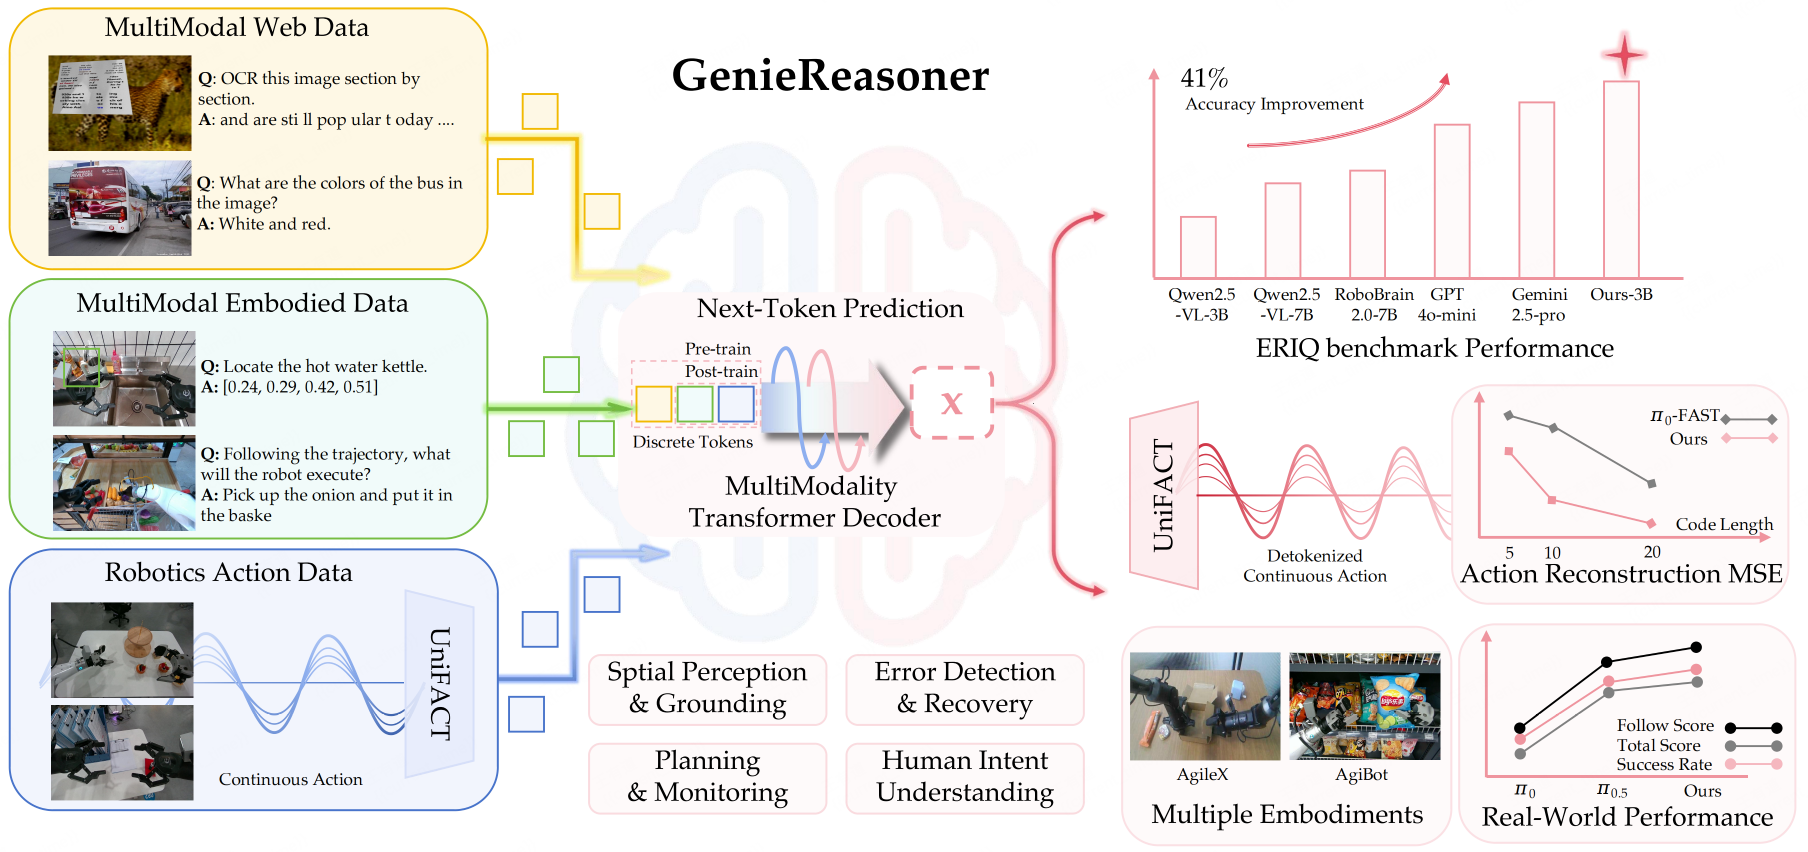
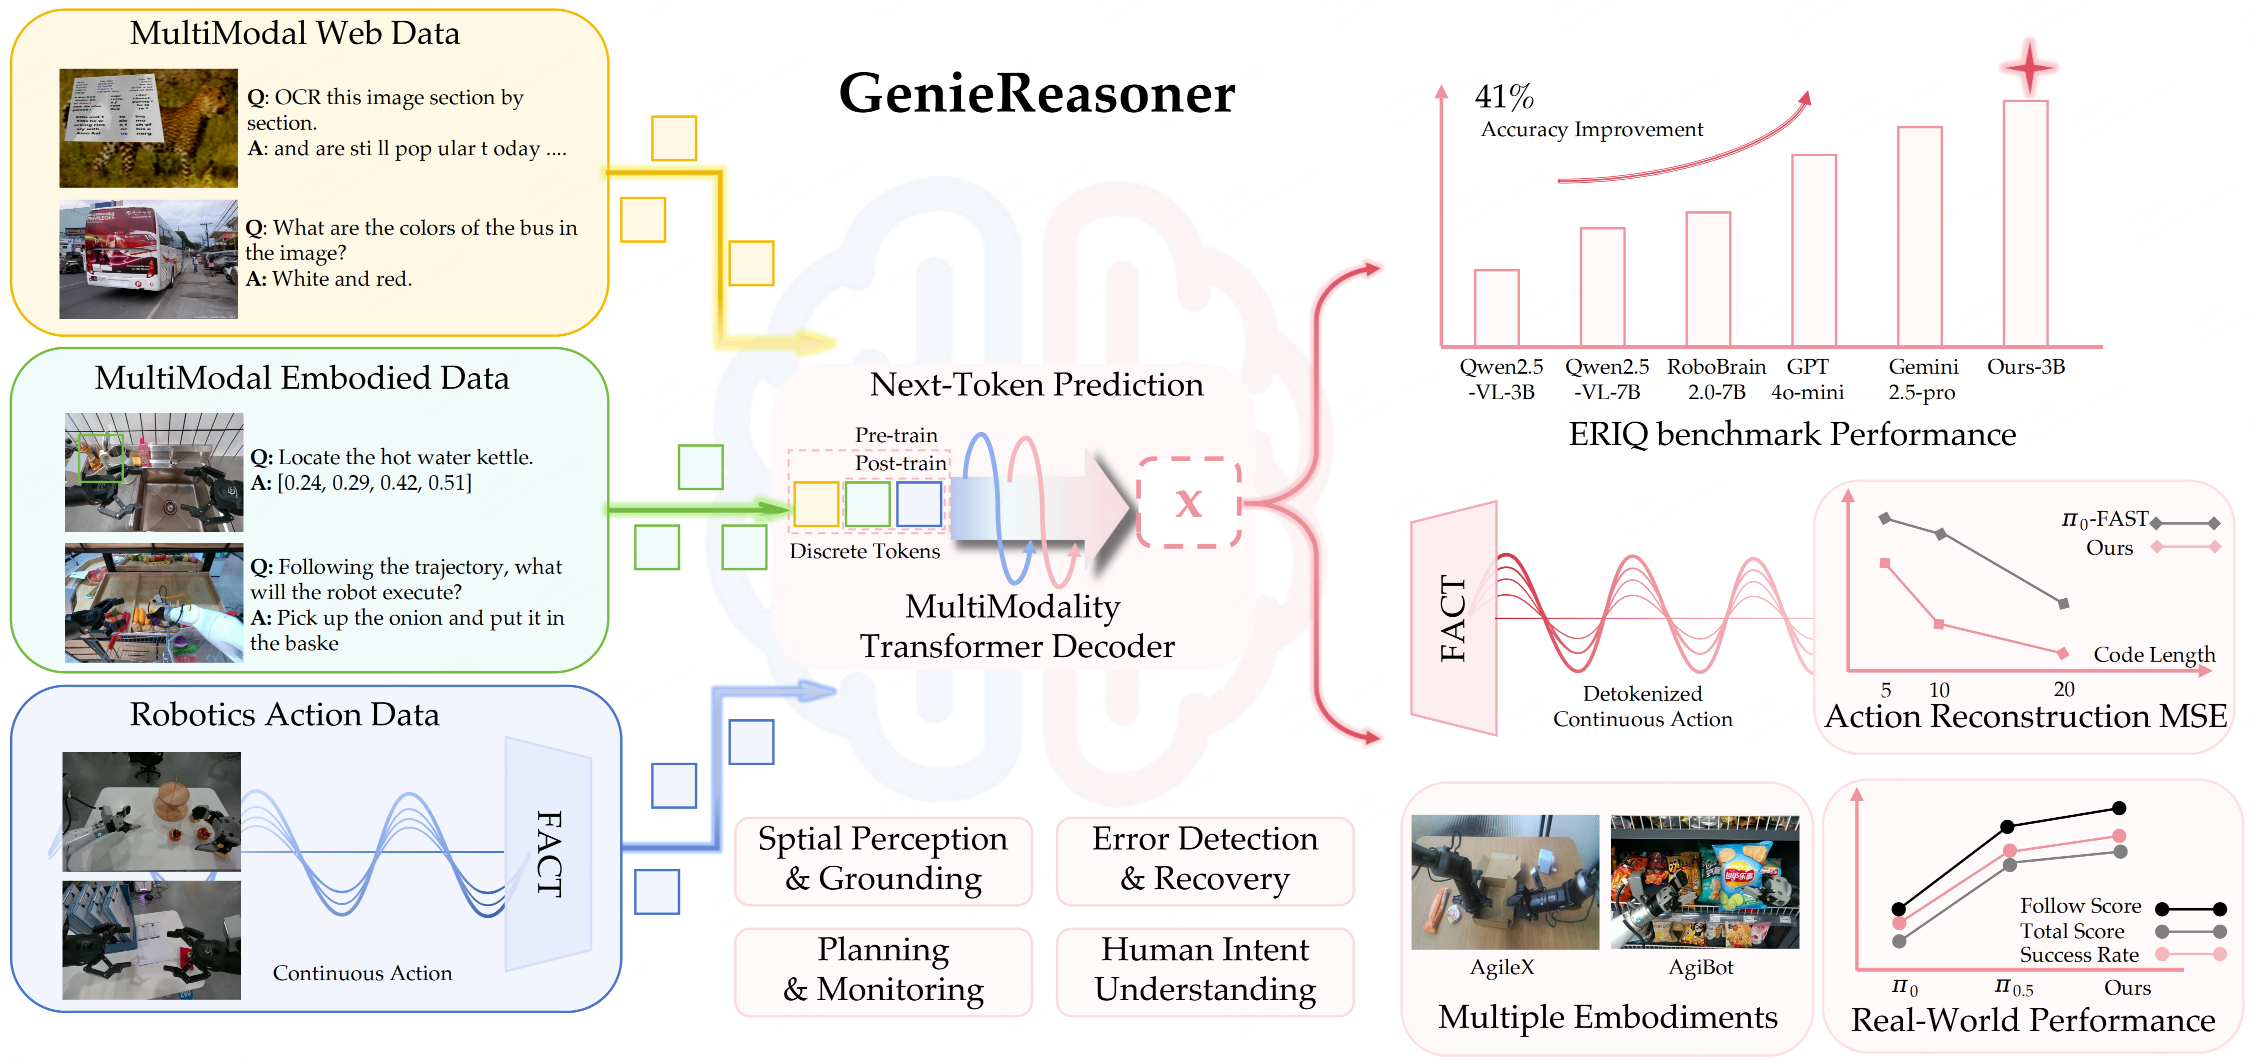
update

diff --git a/index.html b/index.html
@@ -3,7 +3,7 @@
 <head>
     <meta charset="UTF-8">
     <meta name="viewport" content="width=device-width, initial-scale=1.0">
-    <title>GenieReasoner | AgiBot Research</title>
+    <title>FACT | AgiBot Research</title>
     
     <script src="https://cdn.tailwindcss.com"></script>
     <script>
@@ -307,7 +307,7 @@
                 { title: "Charging Cable", desc: "UserPrompt: My phone is out of battery, please give me the corresponding item.", src: "./videos/gen_cable.mp4", src_fpv: "./videos/gen_cable_fpv.mp4" } 
             ],
             hri: [ 
-                { title: "Cooperation", desc: "Human Intention Understanding & Action Interaction", src: "./videos/hri_cooperation.mp4" },
+                { title: "Cooperation", desc: "\"Always At Your Service\"", src: "./videos/hri_cooperation.mp4" },
                 { title: "Adversarial", desc: "Dynamic Following", src: "./videos/hri_adversarial.mp4" }, 
                 { title: "Interaction", desc: "Human Intention Understanding & Action Interaction", src: "./videos/hri_coop.mp4" } 
             ]
@@ -341,7 +341,7 @@
                             <div className="h-8 w-px bg-gray-300"></div>
 
                             <a href="#" className="font-bold text-xl tracking-tight text-textMain hover:text-brand transition-colors">
-                                GR & ERIQ
+                                FACT & ERIQ
                             </a>
                         </div>
 
@@ -541,29 +541,26 @@
                     {/* Header */}
                     <header className="pt-10 pb-16 px-6 max-w-6xl mx-auto text-center border-b border-gray-100">
                         <h1 className="sans-font text-4xl md:text-6xl font-bold text-textMain mb-6 tracking-tighter leading-[1.1]">
-                            GenieReasoner & ERIQ
-                        </h1>
-                        <h2 className="sans-font text-xl md:text-3xl text-black font-bold mb-12 max-w-5xl mx-auto leading-tight">
                             Unified Embodied VLM Reasoning with Robotic Action via Autoregressive Discretized Pre-training
-                        </h2>
+                        </h1>
                         
                         {/* Authors Section */}
                         <div className="sans-font mb-10 max-w-5xl mx-auto">
                             {/* Author List */}
                             <div className="text-base md:text-lg text-black font-bold leading-normal mb-2">
                                 <span className="font-bold whitespace-nowrap">Yi Liu<sup>1*</sup></span>,{' '}
-                                <span className="font-bold whitespace-nowrap">Sukai Wang<sup>1*<span className="text-xl inline-block -translate-y-0.5">†</span></sup></span>,{' '}
+                                <span className="font-bold whitespace-nowrap">Sukai Wang<sup>1*†</sup></span>,{' '}
                                 <span className="font-bold whitespace-nowrap">Dafeng Wei<sup>1</sup></span>,{' '}
-                                <span className="font-bold whitespace-nowrap">Wei Zhang<sup>1</sup></span>,{' '}
+                                <span className="font-bold whitespace-nowrap">Xiaowei Cai<sup>1</sup></span>,{' '}
                                 <span className="font-bold whitespace-nowrap">Linqing Zhong<sup>1</sup></span>,{' '}
                                 <span className="font-bold whitespace-nowrap">Jiange Yang<sup>1</sup></span>,{' '}
-                                <span className="font-bold whitespace-nowrap">Guanghui Ren<sup>2</sup></span>,{' '}
-                                <span className="font-bold whitespace-nowrap">Jinyu Zhang<sup>1 3</sup></span>,<br className="hidden lg:block"/>
+                                <span className="font-bold whitespace-nowrap">Guanghui Ren<sup>2</sup></span>,<br className="hidden lg:block"/>
+                                <span className="font-bold whitespace-nowrap">Jinyu Zhang<sup>1,3</sup></span>,{' '}
                                 <span className="font-bold whitespace-nowrap">Maoqing Yao<sup>2</sup></span>,{' '}
                                 <span className="font-bold whitespace-nowrap">Chuankang Li<sup>1</sup></span>,{' '}
                                 <span className="font-bold whitespace-nowrap">Xindong He<sup>1</sup></span>,{' '}
                                 <span className="font-bold whitespace-nowrap">Liliang Chen<sup>1</sup></span>,{' '}
-                                <span className="font-bold whitespace-nowrap">Jianlan Luo<sup>1 3 ◆</sup></span>
+                                <span className="font-bold whitespace-nowrap">Jianlan Luo<sup>1,3‡</sup></span>
                             </div>
 
                             {/* Affiliations */}
@@ -571,13 +568,6 @@
                                 <span><sup>1</sup> AgiBot Research</span>
                                 <span><sup>2</sup> AgiBot</span>
                                 <span><sup>3</sup> Shanghai Innovation Institute</span>
-                            </div>
-
-                            {/* Footnotes */}
-                            <div className="text-black text-xs font-bold flex flex-wrap justify-center gap-x-6 gap-y-2 italic">
-                                <span>* Equal Contribution</span>
-                                <span><span className="text-sm">†</span> Project Leader</span>
-                                <span>◆ Corresponding Author</span>
                             </div>
                         </div>
 
